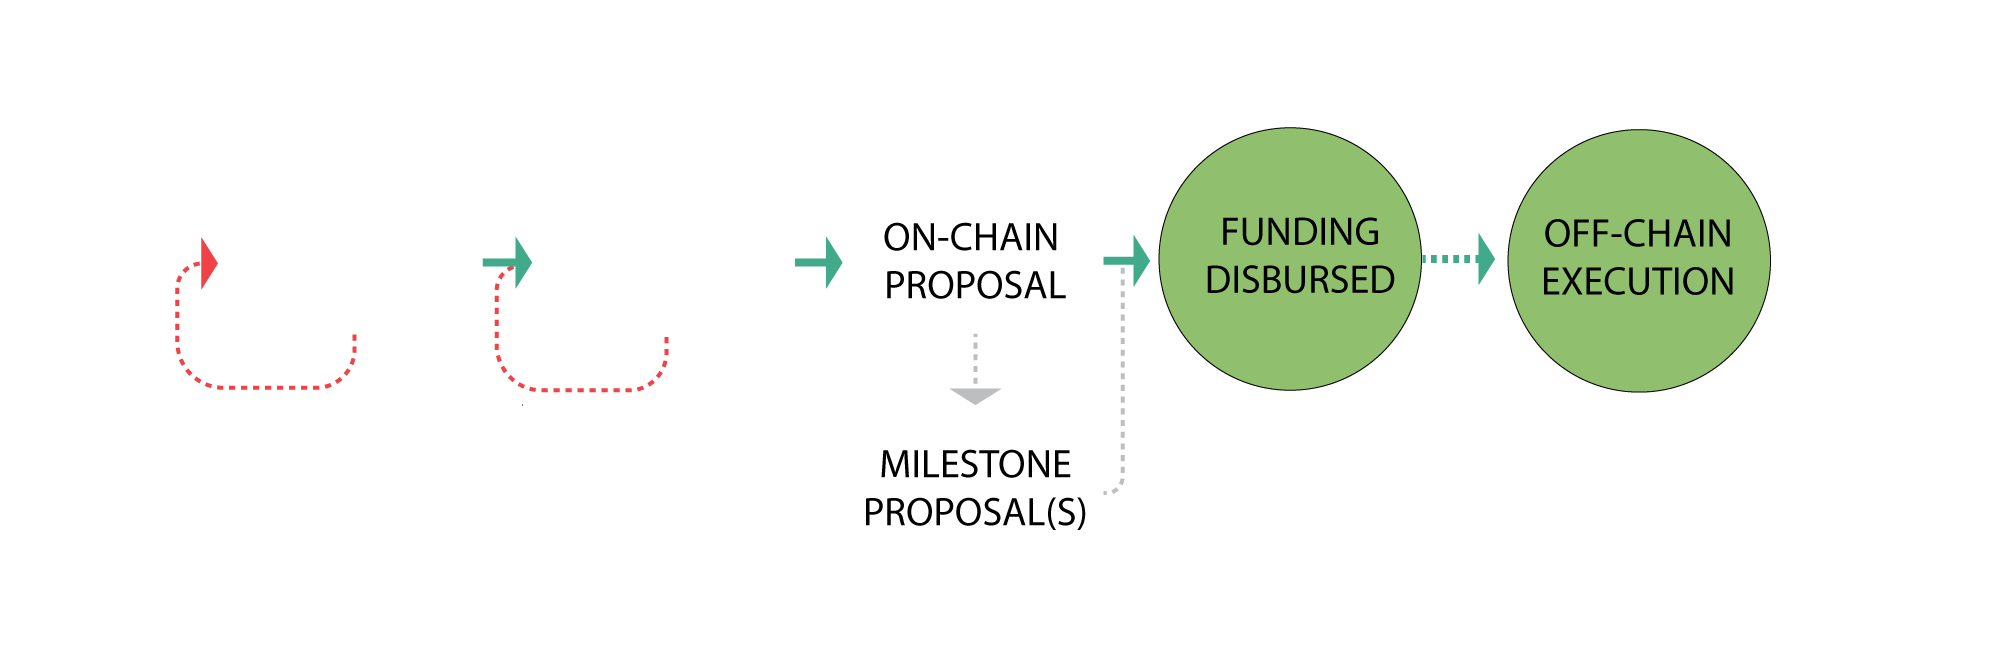
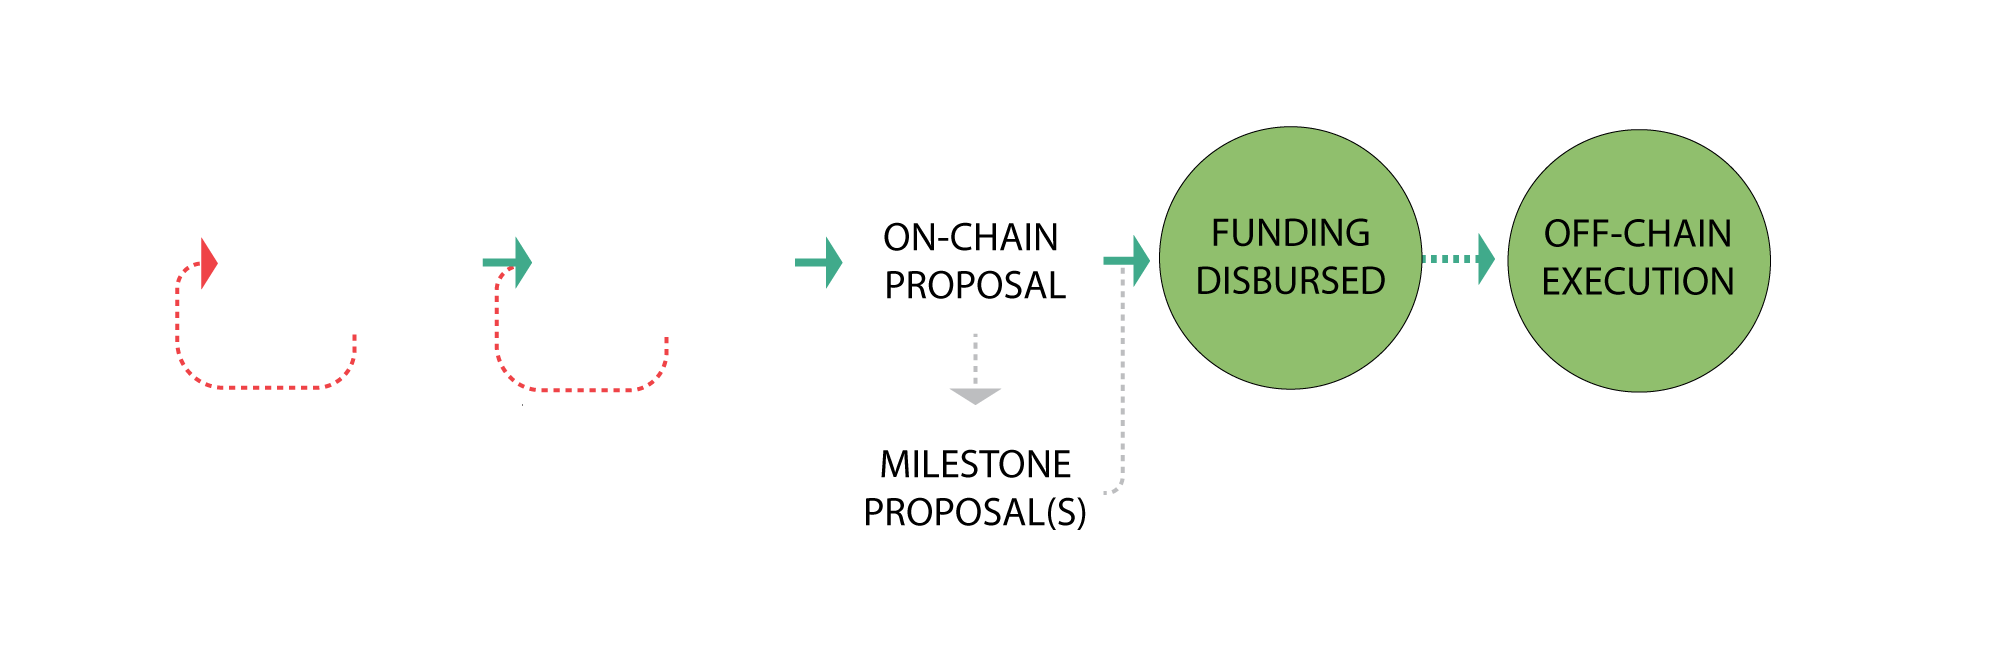
Small text alignment fix on process_funding on dao article

Changed region(s): [[0.5917, 0.3303, 0.7162, 0.4505], [0.6228, 0.1802, 0.6851, 0.2102], [0.6228, 0.5706, 0.6539, 0.6006]]

diff --git a/dao/README.md b/dao/README.md
@@ -41,7 +41,7 @@ Once submitted, proposals become active and enter a 6-7 day voting period. In or
 ### [How to submit a proposal on Tally](https://docs.tally.xyz/user-guides/create-a-proposal)
 
 ### Proposal Requirements  
-- Must have at least 5 ships worth of voting power. This can be a combination of ships staked directly and votes delegated by other pilots. This is code-bound rule.
+- Must have at least 5 ships worth of voting power. This can be a combination of ships staked directly and votes delegated by other pilots. This is a code-bound rule.
 - Must conform to the proposal template guidelines.
 - Must be realistic, narrowly scoped, detailed, and reasonably budgeted based on fair market rates.
 - All contract upgrades must pass a Solidity Finance code audit. 
@@ -127,14 +127,14 @@ While we are still finding our footing, all proposals must first be vetted off-c
 - **Link to Pitch or Draft**: if a Draft Proposal, include link to successful proposal pitch on Discourse. If an on-chain proposal, link to successful Draft Proposal. 
 - **Category**: Funding, Resolution, Contract Upgrade
 - **Summary**: 2-3 sentences.
-- **Rationale**: main supporting arguments.
 - **Description**: 
 	- **What**: detailed description, include any relevant supporting data
+	- **Why**: main supporting arguments
 	- **Who**: is involved, what are their credentials and standing in the community
 	- **When**: time scales and due dates (if applicable)
 	- **How**: implementation pathways, what needs to happen to fully implement proposal and what permissions are involved
 - **For and Against Arguments**: highlight why we would want to pass the proposal and why we might not
-- **Criteria**: what metrics, KPIs, or deliverables represent successful completion of work or goals?
+- **Criteria**: what conditions, metrics, KPIs, or deliverables represent successful completion of work or goals?
 - **Milestones**: if project has a large scope, it's best to break it into separate milestone proposals. They should all be outlined here, as well as any work that has been done if this is a subsequent milestone proposal. 
 - **Cost breakdown**: detailed breakdown of how funds will be used.
 - **Total projected cost**: total estimated cost of the scope of the proposal. 
